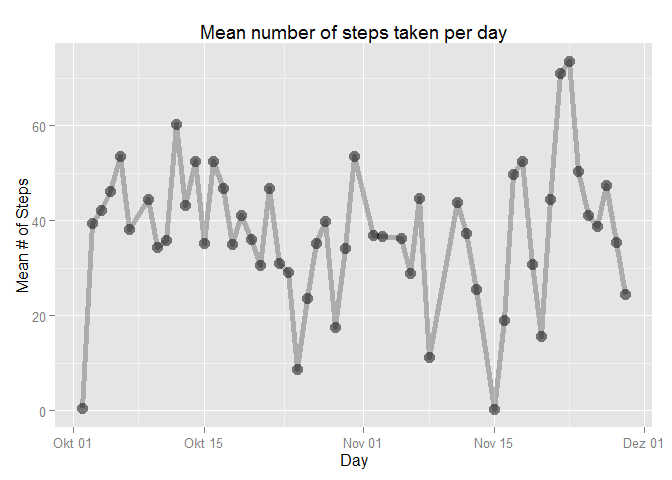
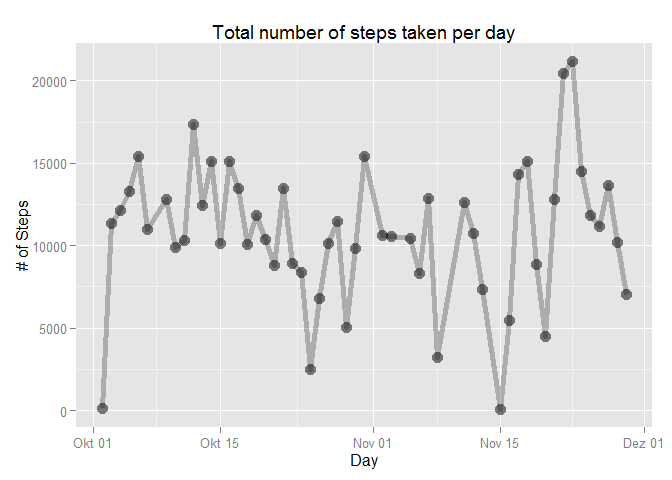
Some corrections

diff --git a/PA1_template.html b/PA1_template.html
@@ -58,37 +58,124 @@ if (window.hljs && document.readyState && document.readyState === "complete") {
 <div id="loading-and-preprocessing-the-data" class="section level2">
 <h2>Loading and preprocessing the data</h2>
 <pre class="r"><code>library(dplyr, quietly = TRUE, warn.conflicts = FALSE)
+library(ggplot2)
+library(scales)
+
 zipfile &lt;- &quot;activity.zip&quot;
 if(!file.exists(zipfile)) 
 {
   print(&quot;error: file does not exist&quot;)
 }
-data.raw &lt;- tbl_df(read.csv(unz(zipfile, &quot;activity.csv&quot;), 
+data &lt;- tbl_df(read.csv(unz(zipfile, &quot;activity.csv&quot;), 
                   col.names=c(&quot;steps&quot;, &quot;date&quot;, &quot;interval&quot;),
                   colClasses=c(&quot;numeric&quot;, &quot;POSIXct&quot;, &quot;numeric&quot;),
                   stringsAsFactors=FALSE, 
                   header=TRUE))
-data &lt;- data.raw %&gt;% filter(!is.na(steps))
+#data &lt;- data.raw %&gt;% filter(!is.na(steps))
+
+# freeing some memory
+rm(data.raw)</code></pre>
+<pre><code>## Warning in rm(data.raw): object 'data.raw' not found</code></pre>
+<pre class="r"><code>rm(zipfile)
+
 str(data)</code></pre>
-<pre><code>## Classes 'tbl_df', 'tbl' and 'data.frame':    15264 obs. of  3 variables:
-##  $ steps   : num  0 0 0 0 0 0 0 0 0 0 ...
-##  $ date    : POSIXct, format: &quot;2012-10-02&quot; &quot;2012-10-02&quot; ...
+<pre><code>## Classes 'tbl_df', 'tbl' and 'data.frame':    17568 obs. of  3 variables:
+##  $ steps   : num  NA NA NA NA NA NA NA NA NA NA ...
+##  $ date    : POSIXct, format: &quot;2012-10-01&quot; &quot;2012-10-01&quot; ...
 ##  $ interval: num  0 5 10 15 20 25 30 35 40 45 ...</code></pre>
 </div>
 <div id="what-is-mean-total-number-of-steps-taken-per-day" class="section level2">
 <h2>What is mean total number of steps taken per day?</h2>
-<pre class="r"><code>library(ggplot2)
-library(scales)
+<ol style="list-style-type: decimal">
+<li>Calculate the total number of steps taken per day</li>
+</ol>
+<pre class="r"><code>totalStepsPerDay &lt;- data %&gt;% filter(!is.na(steps)) %&gt;% group_by(date) %&gt;% summarize(tot = sum(steps))
+totalStepsPerDay</code></pre>
+<pre><code>## Source: local data frame [53 x 2]
+## 
+##          date   tot
+## 1  2012-10-02   126
+## 2  2012-10-03 11352
+## 3  2012-10-04 12116
+## 4  2012-10-05 13294
+## 5  2012-10-06 15420
+## 6  2012-10-07 11015
+## 7  2012-10-09 12811
+## 8  2012-10-10  9900
+## 9  2012-10-11 10304
+## 10 2012-10-12 17382
+## 11 2012-10-13 12426
+## 12 2012-10-14 15098
+## 13 2012-10-15 10139
+## 14 2012-10-16 15084
+## 15 2012-10-17 13452
+## 16 2012-10-18 10056
+## 17 2012-10-19 11829
+## 18 2012-10-20 10395
+## 19 2012-10-21  8821
+## 20 2012-10-22 13460
+## 21 2012-10-23  8918
+## 22 2012-10-24  8355
+## 23 2012-10-25  2492
+## 24 2012-10-26  6778
+## 25 2012-10-27 10119
+## 26 2012-10-28 11458
+## 27 2012-10-29  5018
+## 28 2012-10-30  9819
+## 29 2012-10-31 15414
+## 30 2012-11-02 10600
+## 31 2012-11-03 10571
+## 32 2012-11-05 10439
+## 33 2012-11-06  8334
+## 34 2012-11-07 12883
+## 35 2012-11-08  3219
+## 36 2012-11-11 12608
+## 37 2012-11-12 10765
+## 38 2012-11-13  7336
+## 39 2012-11-15    41
+## 40 2012-11-16  5441
+## 41 2012-11-17 14339
+## 42 2012-11-18 15110
+## 43 2012-11-19  8841
+## 44 2012-11-20  4472
+## 45 2012-11-21 12787
+## 46 2012-11-22 20427
+## 47 2012-11-23 21194
+## 48 2012-11-24 14478
+## 49 2012-11-25 11834
+## 50 2012-11-26 11162
+## 51 2012-11-27 13646
+## 52 2012-11-28 10183
+## 53 2012-11-29  7047</code></pre>
+<ol start="2" style="list-style-type: decimal">
+<li>If you do not understand the difference between a histogram and a barplot, research the difference between them. Make a histogram of the total number of steps taken each day</li>
+</ol>
+<pre class="r"><code>#totalStepsPerDay &lt;- data %&gt;% group_by(date) %&gt;% summarize(tot = sum(steps))
 
-stepsPerDay &lt;- data %&gt;% group_by(date) %&gt;% summarize(mn = mean(steps))
-g &lt;- ggplot(stepsPerDay, aes(date, mn)) +
+ggplot(totalStepsPerDay, aes(date)) +
+      geom_histogram(alpha=1/4) +
+      labs(title = &quot;Total number of steps taken per day&quot;) +
+      labs(x = &quot;Day&quot;, y = &quot;# of Steps&quot;) +
+      scale_y_continuous(labels = comma)</code></pre>
+<pre><code>## stat_bin: binwidth defaulted to range/30. Use 'binwidth = x' to adjust this.</code></pre>
[1 lines of base64/hex data omitted]
+<ol start="3" style="list-style-type: decimal">
+<li>Calculate and report the mean and median of the total number of steps taken per day</li>
+</ol>
+<pre class="r"><code>meanStepsPerDay &lt;- data %&gt;% filter(!is.na(steps)) %&gt;% group_by(date) %&gt;% summarize(mn = mean(steps))
+ggplot(meanStepsPerDay, aes(date, mn)) +
       geom_line(size=2, alpha=1/4) +
       geom_point(size = 4, alpha = 1/2)  +  
       labs(title = &quot;Mean number of steps taken per day&quot;) +
-      labs(x = &quot;Day&quot;, y = &quot;Mean # of Steps&quot;)
-
-print(g)</code></pre>
+      labs(x = &quot;Day&quot;, y = &quot;Mean # of Steps&quot;)</code></pre>
[1 lines of base64/hex data omitted]
+<pre class="r"><code>medianStepsPerDay &lt;- data %&gt;% filter(!is.na(steps) &amp; steps &gt; 0) %&gt;% group_by(date) %&gt;% summarize(mn = median(steps))
+ggplot(medianStepsPerDay, aes(date, mn)) +
+      geom_line(size=2, alpha=1/4) +
+      geom_point(size = 4, alpha = 1/2)  +  
+      labs(title = &quot;Median number of steps taken per day&quot;) +
+      labs(x = &quot;Day&quot;, y = &quot;Median # of Steps&quot;)</code></pre>
[1 lines of base64/hex data omitted]
 </div>
 <div id="what-is-the-average-daily-activity-pattern" class="section level2">
 <h2>What is the average daily activity pattern?</h2>

diff --git a/PA1_template.md b/PA1_template.md
@@ -5,45 +5,156 @@
 
 ```r
 library(dplyr, quietly = TRUE, warn.conflicts = FALSE)
+library(ggplot2)
+library(scales)
+
 zipfile <- "activity.zip"
 if(!file.exists(zipfile)) 
 {
   print("error: file does not exist")
 }
-data.raw <- tbl_df(read.csv(unz(zipfile, "activity.csv"), 
+data <- tbl_df(read.csv(unz(zipfile, "activity.csv"), 
                   col.names=c("steps", "date", "interval"),
                   colClasses=c("numeric", "POSIXct", "numeric"),
                   stringsAsFactors=FALSE, 
                   header=TRUE))
-data <- data.raw %>% filter(!is.na(steps))
+#data <- data.raw %>% filter(!is.na(steps))
+
+# freeing some memory
+rm(data.raw)
+```
+
+```
+## Warning in rm(data.raw): object 'data.raw' not found
+```
+
+```r
+rm(zipfile)
+
 str(data)
 ```
 
 ```
-## Classes 'tbl_df', 'tbl' and 'data.frame':	15264 obs. of  3 variables:
-##  $ steps   : num  0 0 0 0 0 0 0 0 0 0 ...
-##  $ date    : POSIXct, format: "2012-10-02" "2012-10-02" ...
+## Classes 'tbl_df', 'tbl' and 'data.frame':	17568 obs. of  3 variables:
+##  $ steps   : num  NA NA NA NA NA NA NA NA NA NA ...
+##  $ date    : POSIXct, format: "2012-10-01" "2012-10-01" ...
 ##  $ interval: num  0 5 10 15 20 25 30 35 40 45 ...
 ```
 
 
 ## What is mean total number of steps taken per day?
 
-```r
-library(ggplot2)
-library(scales)
+1. Calculate the total number of steps taken per day
 
-stepsPerDay <- data %>% group_by(date) %>% summarize(mn = mean(steps))
-g <- ggplot(stepsPerDay, aes(date, mn)) +
+```r
+totalStepsPerDay <- data %>% filter(!is.na(steps)) %>% group_by(date) %>% summarize(tot = sum(steps))
+totalStepsPerDay
+```
+
+```
+## Source: local data frame [53 x 2]
+## 
+##          date   tot
+## 1  2012-10-02   126
+## 2  2012-10-03 11352
+## 3  2012-10-04 12116
+## 4  2012-10-05 13294
+## 5  2012-10-06 15420
+## 6  2012-10-07 11015
+## 7  2012-10-09 12811
+## 8  2012-10-10  9900
+## 9  2012-10-11 10304
+## 10 2012-10-12 17382
+## 11 2012-10-13 12426
+## 12 2012-10-14 15098
+## 13 2012-10-15 10139
+## 14 2012-10-16 15084
+## 15 2012-10-17 13452
+## 16 2012-10-18 10056
+## 17 2012-10-19 11829
+## 18 2012-10-20 10395
+## 19 2012-10-21  8821
+## 20 2012-10-22 13460
+## 21 2012-10-23  8918
+## 22 2012-10-24  8355
+## 23 2012-10-25  2492
+## 24 2012-10-26  6778
+## 25 2012-10-27 10119
+## 26 2012-10-28 11458
+## 27 2012-10-29  5018
+## 28 2012-10-30  9819
+## 29 2012-10-31 15414
+## 30 2012-11-02 10600
+## 31 2012-11-03 10571
+## 32 2012-11-05 10439
+## 33 2012-11-06  8334
+## 34 2012-11-07 12883
+## 35 2012-11-08  3219
+## 36 2012-11-11 12608
+## 37 2012-11-12 10765
+## 38 2012-11-13  7336
+## 39 2012-11-15    41
+## 40 2012-11-16  5441
+## 41 2012-11-17 14339
+## 42 2012-11-18 15110
+## 43 2012-11-19  8841
+## 44 2012-11-20  4472
+## 45 2012-11-21 12787
+## 46 2012-11-22 20427
+## 47 2012-11-23 21194
+## 48 2012-11-24 14478
+## 49 2012-11-25 11834
+## 50 2012-11-26 11162
+## 51 2012-11-27 13646
+## 52 2012-11-28 10183
+## 53 2012-11-29  7047
+```
+
+2. If you do not understand the difference between a histogram and a barplot, research the difference between them. Make a histogram of the total number of steps taken each day
+
+
+```r
+#totalStepsPerDay <- data %>% group_by(date) %>% summarize(tot = sum(steps))
+
+ggplot(totalStepsPerDay, aes(date)) +
+      geom_histogram(alpha=1/4) +
+      labs(title = "Total number of steps taken per day") +
+      labs(x = "Day", y = "# of Steps") +
+      scale_y_continuous(labels = comma)
+```
+
+```
+## stat_bin: binwidth defaulted to range/30. Use 'binwidth = x' to adjust this.
+```
+
+![](PA1_template_files/figure-html/unnamed-chunk-3-1.png) 
+
+
+
+3. Calculate and report the mean and median of the total number of steps taken per day
+
+```r
+meanStepsPerDay <- data %>% filter(!is.na(steps)) %>% group_by(date) %>% summarize(mn = mean(steps))
+ggplot(meanStepsPerDay, aes(date, mn)) +
       geom_line(size=2, alpha=1/4) +
       geom_point(size = 4, alpha = 1/2)  +	
       labs(title = "Mean number of steps taken per day") +
       labs(x = "Day", y = "Mean # of Steps")
-
-print(g)
 ```
 
-![](PA1_template_files/figure-html/unnamed-chunk-2-1.png) 
+![](PA1_template_files/figure-html/unnamed-chunk-4-1.png) 
+
+
+```r
+medianStepsPerDay <- data %>% filter(!is.na(steps) & steps > 0) %>% group_by(date) %>% summarize(mn = median(steps))
+ggplot(medianStepsPerDay, aes(date, mn)) +
+      geom_line(size=2, alpha=1/4) +
+      geom_point(size = 4, alpha = 1/2)  +  
+      labs(title = "Median number of steps taken per day") +
+      labs(x = "Day", y = "Median # of Steps")
+```
+
+![](PA1_template_files/figure-html/unnamed-chunk-5-1.png) 
 
 ## What is the average daily activity pattern?
 
